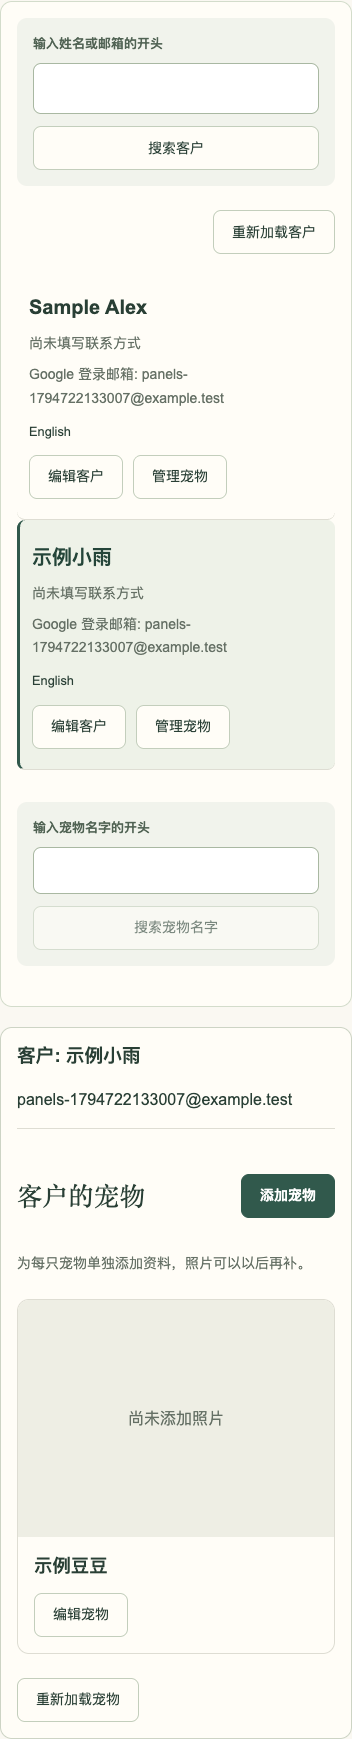
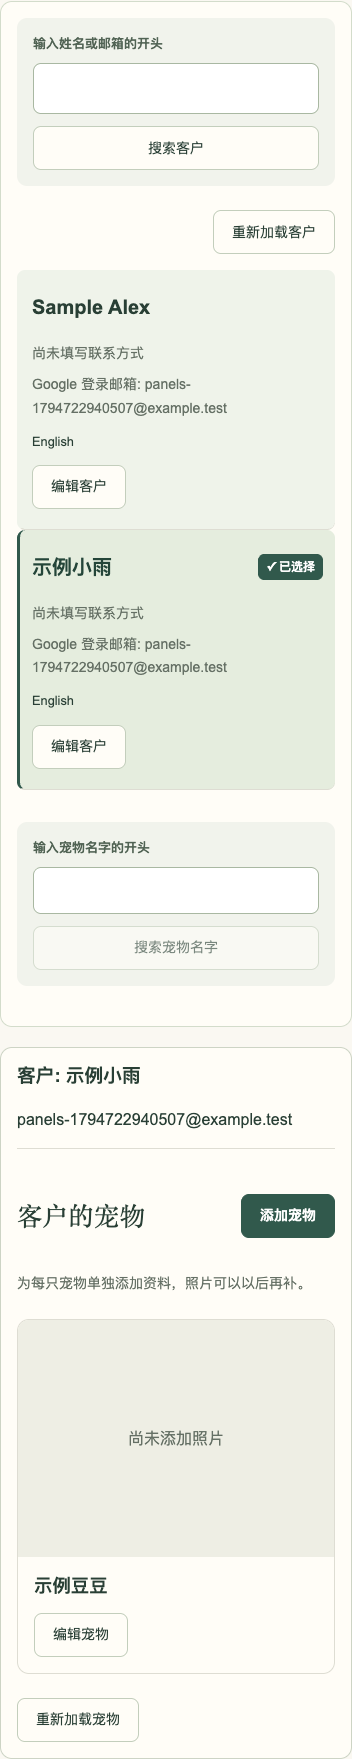
Select customer rows with clear hover and active states

diff --git a/apps/web/src/customers.tsx b/apps/web/src/customers.tsx
@@ -131,7 +131,7 @@ export default function Customers({ refreshKey = 0 }: { refreshKey?: number }) {
       <div className="portal-actions"><button className="button" disabled={saving || error === 'conflict' || error === 'forbidden'} type="submit">{saving ? t.saving : uncertain ? t.retry : t.save}</button><button className="language" type="button" disabled={saving || uncertain} onClick={() => { if (confirmDiscardChanges(i18n.language, form.current)) { setEditor(null); setError(null); } }}>{t.cancel}</button></div>
     </form>}
     <div className="customer-heading"><p>{loaded && !items.length && !loading ? activeSearch.trim() ? t.noMatches : t.empty : ''}</p><button className="language" disabled={loading || saving} onClick={() => void load()}>{t.reload}</button></div>
-    <ul className="customer-list">{items.map(customer => <li key={customer.id} className={petCustomer?.id === customer.id ? 'selected-customer' : undefined}><div><h3><button className="customer-select" aria-pressed={petCustomer?.id === customer.id} onClick={() => choosePets(customer)}>{customer.name}</button></h3><p>{customer.email || customer.phone ? [customer.email, customer.phone].filter(Boolean).join(' · ') : t.noContact}</p>{customer.loginEmail && <p>{t.loginEmail}: {customer.loginEmail}</p>}<span lang={customer.language === 'zh' ? 'zh-Hans' : 'en'}>{customer.language === 'zh' ? '简体中文' : 'English'}</span></div><div className="customer-row-actions"><button className="language" aria-label={`${t.edit}: ${customer.name}`} disabled={saving || uncertain} onClick={() => open(customer)}>{t.edit}</button><button className="language" aria-label={`${chinese ? '管理宠物' : 'Manage pets'}: ${customer.name}`} onClick={() => choosePets(customer)}>{chinese ? '管理宠物' : 'Manage pets'}</button>{!customer.loginEmail&&<button className="language" onClick={()=>setLinkCustomer(customer.id)}>{chinese?'关联 Google 账号':'Link Google account'}: {customer.name}</button>}</div></li>)}</ul>
+    <ul className="customer-list">{items.map(customer => <li key={customer.id} className={petCustomer?.id === customer.id ? 'selected-customer' : undefined}><div><h3><button className="customer-select" aria-label={customer.name} aria-pressed={petCustomer?.id === customer.id} onClick={() => choosePets(customer)}><span className="customer-name">{customer.name}</span>{petCustomer?.id === customer.id && <span className="customer-selected-label" aria-hidden="true">✓ {chinese ? '已选择' : 'Selected'}</span>}</button></h3><p>{customer.email || customer.phone ? [customer.email, customer.phone].filter(Boolean).join(' · ') : t.noContact}</p>{customer.loginEmail && <p>{t.loginEmail}: {customer.loginEmail}</p>}<span lang={customer.language === 'zh' ? 'zh-Hans' : 'en'}>{customer.language === 'zh' ? '简体中文' : 'English'}</span></div><div className="customer-row-actions"><button className="language" aria-label={`${t.edit}: ${customer.name}`} disabled={saving || uncertain} onClick={() => open(customer)}>{t.edit}</button>{!customer.loginEmail&&<button className="language" onClick={()=>setLinkCustomer(customer.id)}>{chinese?'关联 Google 账号':'Link Google account'}: {customer.name}</button>}</div></li>)}</ul>
     {linkCustomer&&<AdminAccountLink key={linkCustomer} customerId={linkCustomer} onLinked={()=>void load()}/>}
     <PetSearch onChoose={choosePets}/>
     {loading && <p role="status">{t.loading}</p>}

diff --git a/tests/browser/customer-panels.spec.ts b/tests/browser/customer-panels.spec.ts
@@ -21,9 +21,24 @@ test('customer list selects the correct pets in bilingual responsive panels and 
   const left=page.getByRole('region',{name:'Customer list',exact:true});
   const right=page.getByRole('region',{name:'Selected customer pets',exact:true});
   await expect(right.getByText('Select a customer from the list to view and manage their pets.')).toBeVisible();
-  await left.getByRole('button',{name:'Sample Alex',exact:true}).click();
+  await expect(left.getByRole('button',{name:/Manage pets/})).toHaveCount(0);
+  const alexRow=left.locator('li').filter({has:page.getByRole('button',{name:'Sample Alex',exact:true})});
+  const otherRow=left.locator('li').filter({has:page.getByRole('button',{name:'示例小雨',exact:true})});
+  const background=await alexRow.evaluate(element=>getComputedStyle(element).backgroundColor);
+  await alexRow.hover();
+  await expect.poll(()=>alexRow.evaluate(element=>getComputedStyle(element).backgroundColor)).not.toBe(background);
+  // Clicking the contact area, outside the name and action buttons, selects the row.
+  await alexRow.click({position:{x:24,y:90}});
   await expect(left.getByRole('button',{name:'Sample Alex',exact:true})).toHaveAttribute('aria-pressed','true');
   await expect(right.getByRole('heading',{name:'Sample Mochi',exact:true})).toBeVisible();
+  await expect(alexRow.getByText('✓ Selected',{exact:true})).toBeVisible();
+  await otherRow.hover();
+  await expect(left.getByRole('button',{name:'Sample Alex',exact:true})).toHaveAttribute('aria-pressed','true');
+  await expect(right.getByRole('heading',{name:'Sample Mochi',exact:true})).toBeVisible();
+  await left.getByRole('button',{name:'Edit customer: 示例小雨',exact:true}).click();
+  await expect(left.getByRole('textbox',{name:'Customer name',exact:true})).toHaveValue('示例小雨');
+  await expect(left.getByRole('button',{name:'Sample Alex',exact:true})).toHaveAttribute('aria-pressed','true');
+  await left.getByRole('button',{name:'Cancel',exact:true}).click();
   const l=await left.boundingBox(),r=await right.boundingBox();
   expect(l!.x+l!.width).toBeLessThan(r!.x);
   await page.locator('.customer-pet-layout').screenshot({path:'test-results/customer-panels-desktop.png'});
@@ -39,6 +54,8 @@ test('customer list selects the correct pets in bilingual responsive panels and 
   await expect(right.getByRole('heading',{name:'Sample Mochi',exact:true})).toHaveCount(0);
   for(const language of ['en','zh']){
     await page.getByRole('combobox',{name:'Language / 语言',exact:true}).selectOption(language);
+    await expect(page.locator('.customer-directory-panel').getByRole('button',{name:/Manage pets|管理宠物/})).toHaveCount(0);
+    await expect(page.locator('.selected-customer').getByText(language==='zh'?'✓ 已选择':'✓ Selected',{exact:true})).toBeVisible();
     for(const width of [320,400,1280]){
       await page.setViewportSize({width,height:900});
       expect(await page.evaluate(()=>document.documentElement.scrollWidth<=innerWidth)).toBe(true);

diff --git a/tests/browser/admin.spec.ts b/tests/browser/admin.spec.ts
@@ -112,7 +112,7 @@ test('administrator can add, edit and search customers in both languages on mobi
     return route.fulfill({json:pet});
   });
   await page.route('**/api/pet-search?**',route=>route.fulfill({json:{items:pets.map(pet=>({pet,customer:{id:customers[0].id,name:customers[0].name,loginEmail:null}})),nextCursor:null}}));
-  await page.getByRole('button',{name:'Manage pets: Alice Chen',exact:true}).click();
+  await page.getByRole('button',{name:'Alice Chen',exact:true}).click();
   const petSection=page.getByRole('region',{name:'Customer’s pets',exact:true});
   await petSection.getByRole('button',{name:'Add pet',exact:true}).click();
   await petSection.getByRole('textbox',{name:'Pet name',exact:true}).fill('Admin sample pet');
@@ -129,7 +129,7 @@ test('administrator can add, edit and search customers in both languages on mobi
   await petSection.getByRole('button',{name:'Edit pet: Admin renamed pet',exact:true}).click();
   await petSection.getByRole('textbox',{name:'Pet name',exact:true}).fill('Keep this pet draft');
   // Opening the same customer preserves the mounted editor without a confirmation.
-  await page.getByRole('button',{name:'Manage pets: Alice Chen',exact:true}).click();
+  await page.getByRole('button',{name:'Alice Chen',exact:true}).click();
   await expect(petSection.getByRole('textbox',{name:'Pet name',exact:true})).toHaveValue('Keep this pet draft');
   const otherCustomer={id:'10000000-0000-4000-8000-000000000099',name:'Other sample',loginEmail:null};
   await page.route('**/api/pet-search?**',route=>route.fulfill({json:{items:[{pet:{...pets[0],customerId:otherCustomer.id},customer:otherCustomer}],nextCursor:null}}));

diff --git a/apps/web/src/style.css b/apps/web/src/style.css
@@ -75,3 +75,15 @@ html[lang=zh-Hans] h1,html[lang=zh-Hans] h2{letter-spacing:0;line-height:1.25}
 .pet-selection-empty h3{color:#293f35}
 @media(max-width:800px){.customer-pet-layout{grid-template-columns:minmax(0,1fr);gap:20px}.customer-directory-panel{padding:16px}.pet-selection-empty{min-height:0;padding:8px}}
 .customer-pet-layout .pet-grid{grid-template-columns:repeat(auto-fill,minmax(min(100%,220px),1fr))}
+
+/* The customer row selects the right panel; edit/link actions remain independent. */
+.customer-directory-panel>.customer-list>li{position:relative;border-left:3px solid transparent;transition:background-color .15s ease}
+.customer-select::after{content:"";position:absolute;inset:0;border-radius:8px}
+.customer-select{display:flex;align-items:flex-start;justify-content:space-between;gap:12px;min-height:44px}
+.customer-select .customer-name{font-size:1.25rem}
+.customer-select .customer-selected-label{flex:none;font-size:12px;line-height:1.5;padding:4px 8px;border-radius:6px;background:#31594c;color:#fff}
+.customer-row-actions{position:relative;z-index:1}
+@media(hover:hover){.customer-directory-panel>.customer-list>li:hover{background:#f0f4eb}.customer-directory-panel>.customer-list>li.selected-customer:hover{background:#dce8d5}}
+.customer-directory-panel>.customer-list>li.selected-customer{background:#e4eddd;border-left-color:#31594c}
+.customer-directory-panel>.customer-list>li:has(.customer-select:focus-visible){outline:3px solid #b66c43;outline-offset:3px}
+@media(prefers-reduced-motion:reduce){.customer-directory-panel>.customer-list>li{transition:none}}

diff --git a/docs/business-owner-guide.md b/docs/business-owner-guide.md
@@ -65,9 +65,9 @@ After saving your profile, use **My pets → Add pet**, enter the pet's name and
 
 保存个人资料后，在“我的宠物”中点击“添加宠物”，填写名字后点击“保存宠物”。每只宠物单独添加。照片可以以后补：点击“编辑宠物”，选择 JPEG、PNG 或 WebP 图片（最大 3 MB、1600 万像素），再保存。新选的图片只有保存后才会上传。已保存的照片仅主人与获授权的管理员可查看，系统会缩小图片并移除原始元数据。
 
-Administrators choose **Manage pets** beside a customer to see that customer's pets. **Search pet names** finds names by their beginning and shows the customer's name/Google email; **Manage these pets** opens all pets belonging to that customer. Edits update the same records the customer sees and keep an audit history. Use the existing customer search for customer names or Google emails. Adding pets does not link an unlinked contact to a Google account.
+Administrators click a customer’s name in the left list to see that customer's pets. **Search pet names** finds names by their beginning and shows the customer's name/Google email; **Manage these pets** opens all pets belonging to that customer. Edits update the same records the customer sees and keep an audit history. Use the existing customer search for customer names or Google emails. Adding pets does not link an unlinked contact to a Google account.
 
-管理员在客户记录旁点击“管理宠物”，即可查看和编辑该客户的宠物。输入宠物名字的开头并点击“搜索宠物名字”，结果会显示宠物归属的客户；点击“管理这些宠物”可打开该客户的全部宠物。按客户姓名或 Google 邮箱查找时，仍使用“搜索客户”。管理员与客户修改同一份资料，修改会保留记录；添加宠物不会自动关联 Google 账号。
+管理员点击左侧列表中的客户姓名，即可查看和编辑该客户的宠物。输入宠物名字的开头并点击“搜索宠物名字”，结果会显示宠物归属的客户；点击“管理这些宠物”可打开该客户的全部宠物。按客户姓名或 Google 邮箱查找时，仍使用“搜索客户”。管理员与客户修改同一份资料，修改会保留记录；添加宠物不会自动关联 Google 账号。
 
 ## Information still needed
 
@@ -81,6 +81,6 @@ Use the same GitHub project, `Fifiloveniuniu/niu-niu-family-paws`, and ask Codex
 
 ## Choosing a customer's pets
 
-In **Customer management**, the customer list appears on the left and the selected customer's pets appear on the right. Click a customer's name or **Manage pets** to select them. The selected row is highlighted. On phones, the pets appear below the customer list. Search customers or pet names in the left panel; pet search results can also select a customer. Existing private photos remain visible only to the owner and authorized administrators. Switching customers asks before discarding unsaved pet edits.
+In **Customer management**, the customer list appears on the left and the selected customer's pets appear on the right. Click a customer’s row to show their pets on the right. Hovering highlights the row; the selected customer has a green background, a left border and a Selected badge. Edit customer and account linking remain separate actions. On phones, the pets appear below the customer list. Search customers or pet names in the left panel; pet search results can also select a customer. Existing private photos remain visible only to the owner and authorized administrators. Switching customers asks before discarding unsaved pet edits.
 
-在“客户管理”中，左侧显示客户列表，右侧显示所选客户的宠物。点击客户姓名或“管理宠物”即可选择，所选客户会高亮显示。手机上，宠物区域显示在客户列表下方。左侧可按客户或宠物名字搜索，宠物搜索结果也可用于选择客户。已保存的照片仍仅供主人和获授权的管理员查看。切换客户前，如有未保存的宠物修改，系统会先询问。
+在“客户管理”中，左侧显示客户列表，右侧显示所选客户的宠物。点击客户行即可在右侧查看其宠物。鼠标悬停时会高亮；所选客户显示绿色背景、左侧边框和“已选择”标记。编辑客户和关联账号仍为独立操作。手机上，宠物区域显示在客户列表下方。左侧可按客户或宠物名字搜索，宠物搜索结果也可用于选择客户。已保存的照片仍仅供主人和获授权的管理员查看。切换客户前，如有未保存的宠物修改，系统会先询问。
